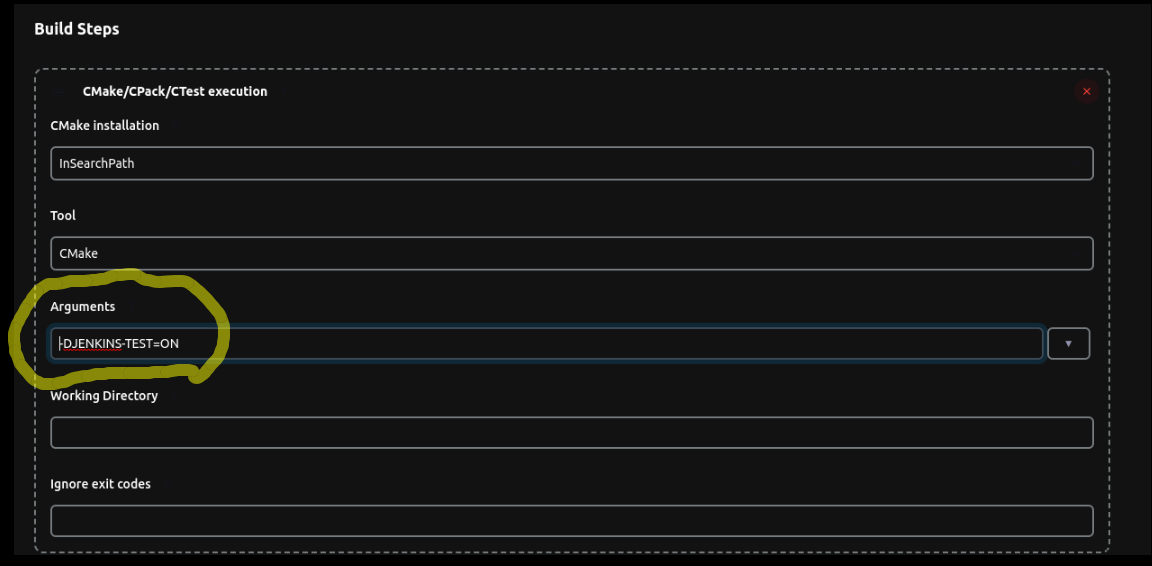
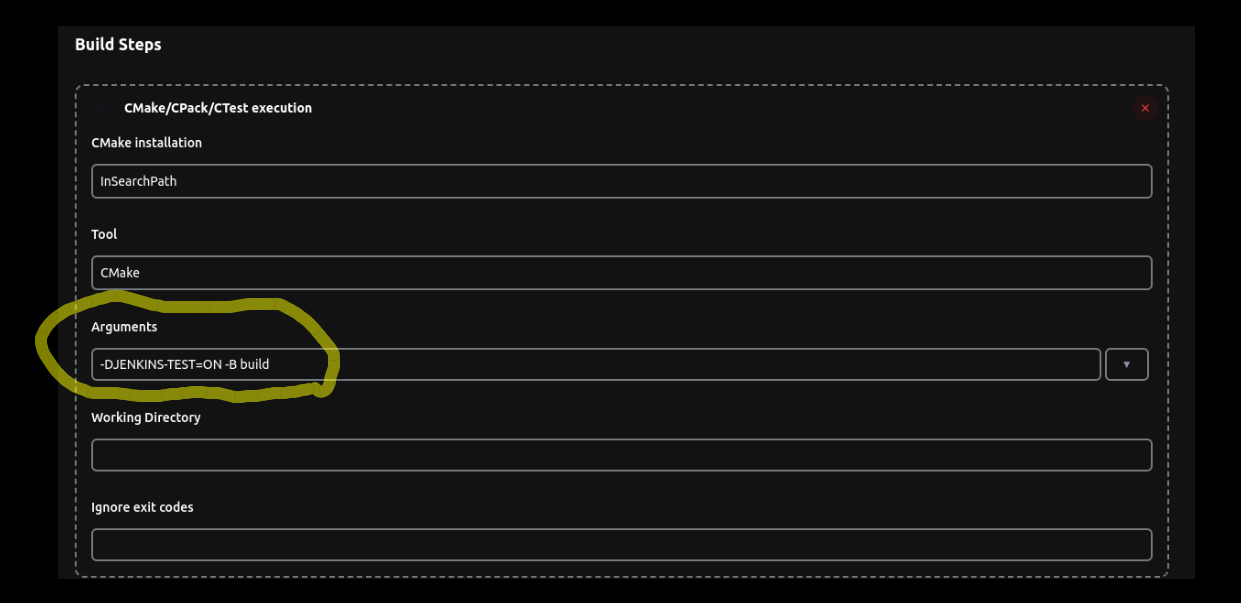
update build step

Changed region(s): [[0.0, 0.1201, 0.9688, 0.9912], [0.0312, 0.03, 0.125, 0.0901]]

diff --git a/README.md b/README.md
@@ -27,12 +27,14 @@ https://hub.docker.com/_/jenkins/
 1. (Installing Jenkins) select "Free Style Project"
 1. (Installing Jenkins) fill "git repository url"
 1. (Installing Jenkins) select CMake/CPack/CTest execution as build step
+1. (Installing Jenkins) create another CMake/CPack/CTest execution to build application
 1. (Installing Jenkins) save and start building
 
 ![add_plugin1.png](img/add_plugin1.png)
 ![repository_url.png](img/repository_url.png)
 ![build_step1.png](img/build_step1.png)
 ![build_step2.png](img/build_step2.png)
+![build_step3.png](img/build_step3.png)
 
 
 ### How to access docker container
